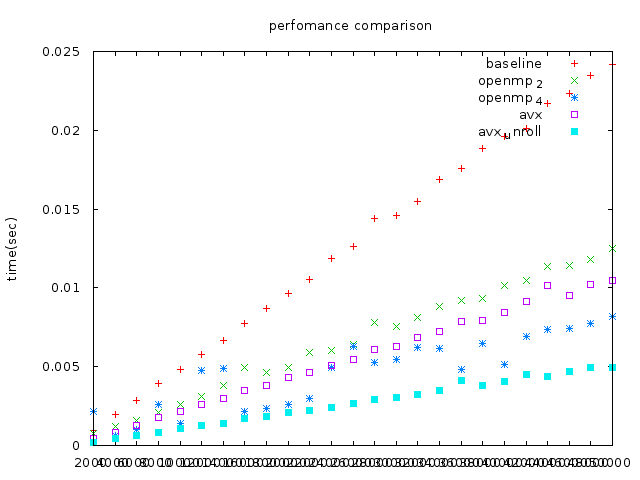
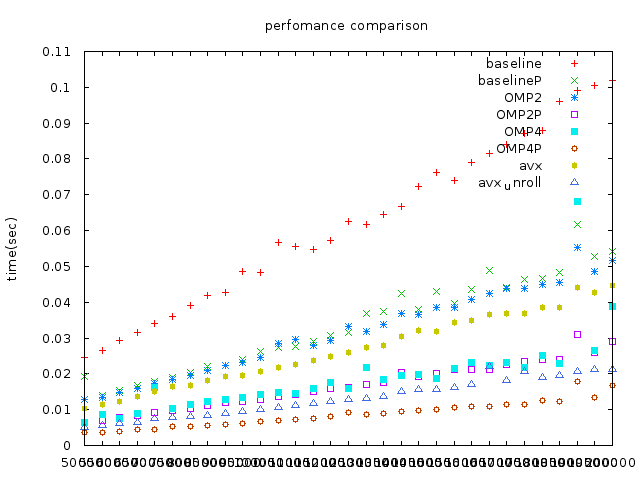
v2: Refactor compute-pi and add compute error.

diff --git a/benchmark_error_rate.c b/benchmark_error_rate.c
@@ -1,0 +1,85 @@
+#include <stdio.h>
+#include <stdlib.h>
+#include <time.h>
+#include "computepi.h"
+#include <math.h>
+
+#define CLOCK_ID CLOCK_MONOTONIC_RAW
+#define ONE_SEC 1000000000.0
+
+int main(int argc, char const *argv[])
+{
+
+    if (argc < 2) return -1;
+
+    int N = atoi(argv[1]);
+    int i, loop = 25;
+    double pi, diff, error;
+
+    // Baseline
+    for(i = 0; i < loop; i++) {
+        pi = compute_pi_baseline(N);
+    }
+    diff = pi - M_PI > 0 ? pi - M_PI : M_PI - pi;
+    error = diff / M_PI;
+    printf("%lf ", error);
+
+    // Baseline Plus
+    for(i = 0; i < loop; i++) {
+        pi = compute_pi_baseline_plus(N);
+    }
+    diff = pi - M_PI > 0 ? pi - M_PI : M_PI - pi;
+    error = diff / M_PI;
+    printf("%lf ", error);
+
+    // OpenMP with 2 threads
+    for(i = 0; i < loop; i++) {
+        pi = compute_pi_openmp(N, 2);
+    }
+    diff = pi - M_PI > 0 ? pi - M_PI : M_PI - pi;
+    error = diff / M_PI;
+    printf("%lf ", error);
+
+    // OpenMP Plus with 2 threads
+    for(i = 0; i < loop; i++) {
+        pi = compute_pi_openmp_plus(N, 2);
+    }
+    diff = pi - M_PI > 0 ? pi - M_PI : M_PI - pi;
+    error = diff / M_PI;
+    printf("%lf ", error);
+
+    // OpenMP with 4 threads
+    for(i = 0; i < loop; i++) {
+        pi = compute_pi_openmp(N, 4);
+    }
+    diff = pi - M_PI > 0 ? pi - M_PI : M_PI - pi;
+    error = diff / M_PI;
+    printf("%lf ", error);
+
+    // OpenMP Plus with 4 threads
+    for(i = 0; i < loop; i++) {
+        pi = compute_pi_openmp_plus(N, 4);
+    }
+    diff = pi - M_PI > 0 ? pi - M_PI : M_PI - pi;
+    error = diff / M_PI;
+    printf("%lf ", error);
+
+    // AVX SIMD
+    for(i = 0; i < loop; i++) {
+        pi = compute_pi_avx(N);
+    }
+    diff = pi - M_PI > 0 ? pi - M_PI : M_PI - pi;
+    error = diff / M_PI;
+    printf("%lf ", error);
+
+
+    // AVX SIMD + Loop unrolling
+    for(i = 0; i < loop; i++) {
+        pi = compute_pi_avx_unroll(N);
+    }
+    diff = pi - M_PI > 0 ? pi - M_PI : M_PI - pi;
+    error = diff / M_PI;
+    printf("%lf\n", error);
+
+    return 0;
+}

diff --git a/benchmark_clock_gettime.c b/benchmark_clock_gettime.c
@@ -25,6 +25,15 @@ int main(int argc, char const *argv[])
     printf("%lf ", (double) (end.tv_sec - start.tv_sec) +
            (end.tv_nsec - start.tv_nsec)/ONE_SEC);
 
+    // Baseline Plus
+    clock_gettime(CLOCK_ID, &start);
+    for(i = 0; i < loop; i++) {
+        compute_pi_baseline_plus(N);
+    }
+    clock_gettime(CLOCK_ID, &end);
+    printf("%lf ", (double) (end.tv_sec - start.tv_sec) +
+           (end.tv_nsec - start.tv_nsec)/ONE_SEC);
+
 
     // OpenMP with 2 threads
     clock_gettime(CLOCK_ID, &start);
@@ -35,6 +44,14 @@ int main(int argc, char const *argv[])
     printf("%lf ", (double) (end.tv_sec - start.tv_sec) +
            (end.tv_nsec - start.tv_nsec)/ONE_SEC);
 
+    // OpenMP Plus with 2 threads
+    clock_gettime(CLOCK_ID, &start);
+    for(i = 0; i < loop; i++) {
+        compute_pi_openmp_plus(N, 2);
+    }
+    clock_gettime(CLOCK_ID, &end);
+    printf("%lf ", (double) (end.tv_sec - start.tv_sec) +
+           (end.tv_nsec - start.tv_nsec)/ONE_SEC);
 
     // OpenMP with 4 threads
     clock_gettime(CLOCK_ID, &start);
@@ -45,6 +62,14 @@ int main(int argc, char const *argv[])
     printf("%lf ", (double) (end.tv_sec - start.tv_sec) +
            (end.tv_nsec - start.tv_nsec)/ONE_SEC);
 
+    // OpenMP Plus with 4 threads
+    clock_gettime(CLOCK_ID, &start);
+    for(i = 0; i < loop; i++) {
+        compute_pi_openmp_plus(N, 4);
+    }
+    clock_gettime(CLOCK_ID, &end);
+    printf("%lf ", (double) (end.tv_sec - start.tv_sec) +
+           (end.tv_nsec - start.tv_nsec)/ONE_SEC);
 
     // AVX SIMD
     clock_gettime(CLOCK_ID, &start);

diff --git a/computepi.c b/computepi.c
@@ -3,6 +3,16 @@
 #include <omp.h>
 #include "computepi.h"
 
+double compute_pi_baseline_plus(size_t N)
+{
+    double pi = 0.0;
+    for (size_t i = 0; i < N; i++) {
+        double x = N * N + i * i;
+        pi += N / (x);       // integrate 1/(1+x^2), i = 0....N
+    }
+    return pi * 4.0;
+}
+
 double compute_pi_baseline(size_t N)
 {
     double pi = 0.0;
@@ -25,6 +35,20 @@ double compute_pi_openmp(size_t N, int threads)
         for (size_t i = 0; i < N; i++) {
             x = (double) i / N;
             pi += dt / (1.0 + x * x);
+        }
+    }
+    return pi * 4.0;
+}
+
+double compute_pi_openmp_plus(size_t N, int threads)
+{
+    double pi = 0.0;
+    #pragma omp parallel num_threads(threads)
+    {
+        #pragma omp for reduction(+:pi)
+        for (size_t i = 0; i < N; i++) {
+            double x = N * N + i * i;
+            pi += N / (x);       // integrate 1/(1+x^2), i = 0....N
         }
     }
     return pi * 4.0;

diff --git a/time_test.c b/time_test.c
@@ -1,5 +1,6 @@
 #include <stdio.h>
 #include "computepi.h"
+#include <math.h>
 
 int main(int argc, char const *argv[])
 {
@@ -10,11 +11,21 @@ int main(int argc, char const *argv[])
     pi = compute_pi_baseline(N);
 #endif
 
+#if defined(BASELINE_PLUS)
+    pi = compute_pi_baseline(N);
+#endif
+
 #if defined(OPENMP_2)
+    pi = compute_pi_openmp(N, 2);
+#endif
+#if defined(OPENMP_2_PLUS)
     pi = compute_pi_openmp(N, 2);
 #endif
 
 #if defined(OPENMP_4)
+    pi = compute_pi_openmp(N, 4);
+#endif
+#if defined(OPENMP_4_PLUS)
     pi = compute_pi_openmp(N, 4);
 #endif
 
@@ -25,7 +36,9 @@ int main(int argc, char const *argv[])
 #if defined(AVXUNROLL)
     pi = compute_pi_avx_unroll(N);
 #endif
-    printf("N = %d , pi = %lf\n", N, pi);
+    double diff = pi - M_PI > 0 ? pi - M_PI : M_PI - pi;
+    double error = diff / M_PI;
+    printf("N = %d , pi = %lf , error = %lf\n", N, pi, error);
 
     return 0;
 }

diff --git a/computepi.h b/computepi.h
@@ -1,6 +1,8 @@
 #include <stdio.h>
 
 double compute_pi_baseline(size_t N);
+double compute_pi_baseline_plus(size_t N);
 double compute_pi_openmp(size_t N, int threads);
+double compute_pi_openmp_plus(size_t N, int threads);
 double compute_pi_avx(size_t N);
 double compute_pi_avx_unroll(size_t N);
